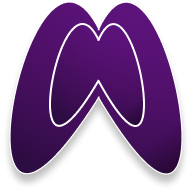
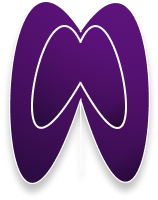
ball img

Changed region(s): [[0.0506, 0.0, 0.962, 0.9737]]

diff --git a/src/components/about/Ceo.jsx b/src/components/about/Ceo.jsx
@@ -1,5 +1,6 @@
 import React from 'react'
 import styles from '../../style'
+import { gif, lamp } from '../../assets'
 
 const Ceo = () => {
   return (
@@ -9,6 +10,9 @@ const Ceo = () => {
         <p className=' neue-thin text-[24px] text-start tracking-wide '><br /> He seeks to inspire 
        individuals and organizations to reach their full potential. With a focus on excellence, 
         empowerment, and innovation,  </p> 
+        <div>
+    <img src={lamp} alt="" className='' />
+   </div>
         <p className=' neue-thin text-[24px] text-start tracking-wide mt-5'>  Ahmedcine embodies our firm's commitment to guiding our 
         clients towards success in their respective fields. </p> 
       

diff --git a/src/components/about/Guiding.jsx b/src/components/about/Guiding.jsx
@@ -1,6 +1,6 @@
 import React from 'react'
 import styles from '../../style'
-import { lamp } from '../../assets'
+import { ball, lamp } from '../../assets'
 
 const Guiding = () => {
   return (
@@ -47,9 +47,9 @@ developing a tailored plan.
       expertise.
     </p>
      {/* heading */}
-   <div>
-    <img src={lamp} alt="" className='' />
-   </div>
+  <div className='flex justify-end items-end align-items-right object-right'>
+    <img src={ball} alt=""className='w-[120px] h-[100px]' />
+  </div>
     </div> 
     
     {/* card 2   ///////////////////////////////////////////    */}

diff --git a/src/assets/index.js b/src/assets/index.js
@@ -30,11 +30,13 @@ import arrowhite from './white.png'
 import service from './service.png'
 import lamp from './lamp.png'
 import seat from './manseat.jpg'
-import bulb from './bulb.jpg'
+import bulb from './bulb.png'
+import ball from './ball.png'
 
 
 
 export {
+    ball,
     lamp,
     seat,
     bulb,

diff --git a/src/index.css b/src/index.css
@@ -1013,3 +1013,10 @@ backdrop-filter: blur(20px);
     background-repeat: repeat-y;
     
   }
+  .giff{
+    background-image: url(assets/guide.png);
+    background-position: center;
+    background-size: cover;
+    background-repeat: repeat-y;
+    
+  }
